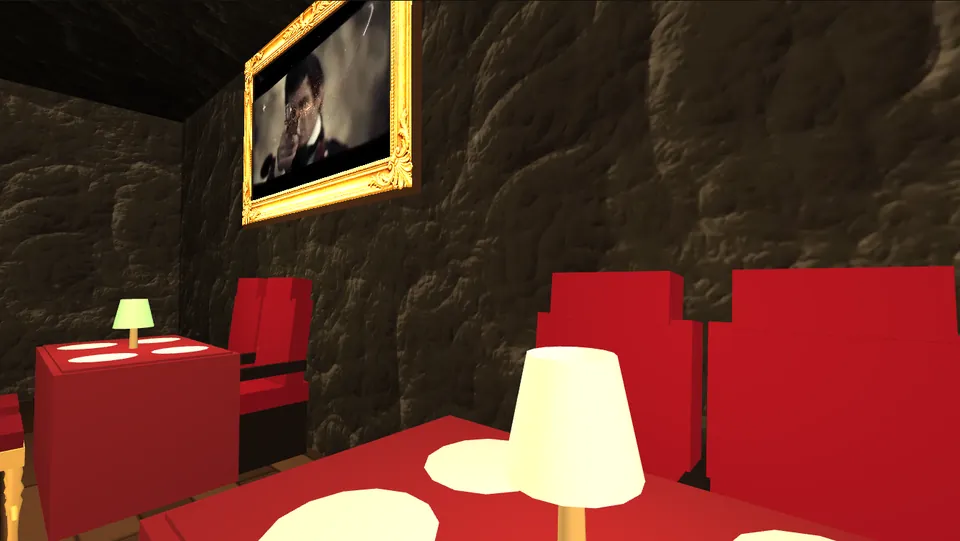
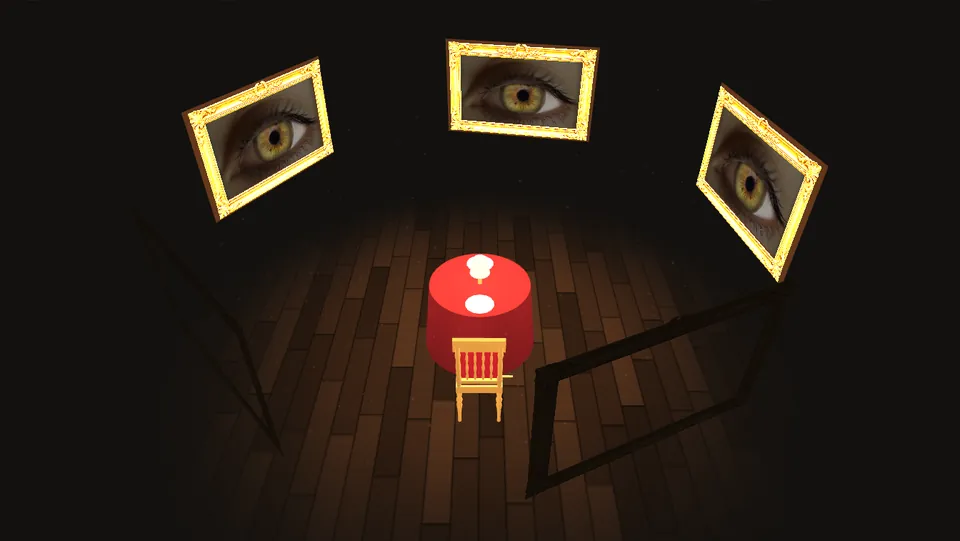
Grotte Napoléon : la salle 3D devient le concept seul (une table, une chaise, cinq écrans qui tournent)
Claude-Session: https://claude.ai/code/session_01Tg9JuPFfiTJrQ2axzwAjp1

diff --git a/clients/la-grotte-napoleon/salle.js b/clients/la-grotte-napoleon/salle.js
@@ -1,13 +1,10 @@
-/* La salle de la Grotte en 3D, vue en plongée comme une maquette (WebGL écrit à la main, sans bibliothèque), d'après la photo
-   et de la vidéo de la vraie salle : une longue galerie de roche NOIRE (la roche ne se voit que là où les lampes et les écrans
-   l'éclairent), parquet sombre, nappes rouges jusqu'au sol, sièges de cinéma capitonnés rouges contre le mur derrière chaque table collée au mur, assiettes de présentation argentées, lampes à abat-jour (crème à
-   la couronne, ou vert) qui font une lumière chaude, cadres dorés haut sur les murs, rien d'autre sur les murs ; au fond, une arcade ouvre sur la seconde salle (trois écrans, tables rondes).
-   Les écrans passent le film de présentation (images/salle.mp4) et leur lumière prend la couleur du film.
-   Vue des yeux d'un client assis à sa table (3 novembre 2026, demande de l'utilisateur : plus de maquette vue d'en haut, où l'on croirait
-   choisir sa place) : la table et son assiette en bas, les murs de roche, les écrans tout autour ; la tête tourne lentement sur elle-même,
-   on peut la tourner à la souris ou au doigt.
-   La toile est transparente : la maquette se pose directement sur le fond de roche de la page, sans cadre.
-   Chargé seulement à l'approche de la section (grotte.js) ; sans WebGL ou avec le mouvement réduit, l'image fixe (transparente) reste. */
+/* La salle de la Grotte en 3D (WebGL écrit à la main, sans bibliothèque) : pour expliquer le concept, pas pour montrer la salle
+   (3 novembre 2026, demande de l'utilisateur : « je veux pas qu'on ait un aperçu de la salle ou de la disposition »).
+   Une seule table ronde dressée, une chaise « Napoléon », et les cinq écrans à cadre doré qui tournent lentement autour d'elle :
+   où que l'on soit assis, le film est tout autour. Pas de murs, pas de plan : la scène flotte sur le fond de roche de la page
+   (toile transparente, le sol s'efface en cercle). Les écrans passent le film de présentation (images/salle.mp4) et leur lumière
+   prend la couleur du film. On peut faire tourner les écrans à la souris ou au doigt.
+   Chargé seulement à l'approche de la section (grotte.js) ; sans WebGL ou avec le mouvement réduit, l'image fixe reste. */
 (() => {
   const boite = document.getElementById("salle3d"); if (!boite) return;
   const toile = boite.querySelector("canvas"), gl = toile.getContext("webgl", { antialias: true, alpha: true, premultipliedAlpha: true, powerPreference: "low-power" }); /* toile transparente : la maquette flotte sur le fond du site */
@@ -85,66 +82,26 @@
     return forme(pos, uv, nor, idx);
   };
 
-  /* ---------- le plan de la salle (une unité = un mètre), d'après les photos et la vidéo de l'utilisateur ----------
-     la grande salle (ZA..ZE) : tables collées aux deux murs avec une rangée de fauteuils de cinéma contre le mur et des chaises
-     dorées côté allée, un écran à cadre doré sur chaque mur, le rideau noir au bout (la cuisine est derrière) ;
-     une arcade de roche large et basse ; la salle du fond (ZF..ZA, plus large) : tables rondes, trois écrans (gauche, fond, droite) */
-  /* UNE UNITÉ = UN MÈTRE (depuis le 2 novembre 2026). La vraie salle fait environ 4,4 × 5,6 m (grande salle), 4 × 3,6 m (fond), 2,6 m sous plafond ;
-     à la demande de l'utilisateur, la maquette est agrandie d'un tiers en long et en large (F) et d'un cinquième en haut (H) pour qu'on respire,
-     le mobilier gardant sa taille réelle. Les écrans et l'arcade grandissent avec la salle. */
-  const F = 1.35, H = 1.2;
-  const X = 2.2 * F, X2 = 2.0 * F, ZE = 5.6 * F, ZA = 0, ZF = -3.6 * F, HM = 2.6 * H, ARC = 1.1 * F, LINTEAU = 2.1 * H;
-  const HT = .75; /* hauteur des tables */
-  /* les écrans : [centre, normale, largeur] ; tous les cinq sont des téléviseurs OLED de 165 cm (16/9 : 1,44 m × 0,81 m), accrochés haut (centre à 2 m) : personne, assis, ne gêne la vue. Le cadre doré (moulures : 9,9 % sur
-     les côtés, 14,8 % en haut et en bas, dessinées pour une ouverture 2/1) s'étire un peu en hauteur pour suivre le 16/9. */
-  const ECRAN_L = 1.44 * F, ECRAN_Y = 2.0 * H; /* 165 cm de diagonale (1,44 × 0,81 m), agrandis avec la salle ; le haut reste juste sous le plafond */
-  const ECRANS = [[[-X + .02, ECRAN_Y, 3.2 * F], [1, 0, 0], ECRAN_L], [[X - .02, ECRAN_Y, 3.2 * F], [-1, 0, 0], ECRAN_L],
-    [[-X2 + .02, ECRAN_Y, -2.2 * F], [1, 0, 0], ECRAN_L], [[0, ECRAN_Y, ZF + .02], [0, 0, 1], ECRAN_L], [[X2 - .02, ECRAN_Y, -2.2 * F], [-1, 0, 0], ECRAN_L]];
-  const N = ECRANS.length, CG = .099, CH = .148;
-  /* les tables collées au mur [x, z, demi-largeur, demi-longueur] (l'allée est du côté du centre), et les tables rondes [x, z, rayon] */
-  /* 30 places en tout, comme le vrai restaurant : 18 dans la grande salle (2 + 2 tables collées au mur), 12 dans la salle du fond (2 rondes de 4, une table de 4) */
-  /* depuis le mur : la banquette (50 cm), puis la table (70 cm de profondeur, 1,2 m de long pour 4, 1,8 m pour 6), puis les chaises */
-  const LONGUES = [[-X + .9, 1.3 * F, .35, .6], [-X + .9, 3.5 * F, .35, .6], [X - .9, 1.3 * F, .35, .6], [X - .9, 3.8 * F, .35, .9],
-    [X2 - .9, -1.0 * F, .35, .6]];
-  const RONDES = [[-X2 + 1.05, -.95 * F, .5, 1], [0, -2.5 * F, .5]]; /* tables rondes d'un mètre */ /* 4e valeur : côté libre (+1 : la table est contre le mur gauche, deux banquettes de cinéma côté mur, deux chaises côté salle) */ /* une contre le mur gauche (en face de la table collée au mur droit), l'autre au centre de la salle du fond */
-  const CHAISES = [], FAUTEUILS = [];
-  /* les sièges de cinéma capitonnés rouges, collés au mur, seulement devant les tables collées au mur (demande de
-     l'utilisateur : pas de sièges là où il n'y a pas de table) ; un siège tous les 0,54, deux par table de quatre, trois pour la table de six */
-  for (const [x, z, , hz] of LONGUES) { const s = x < 0 ? 1 : -1, n = Math.max(2, Math.round(hz * 2 / .56));
-    for (let k = 0; k < n; k++) FAUTEUILS.push([x - s * .6, z - (n - 1) * .28 + k * .56, s]); }
-  for (const [x, z, hx, hz] of LONGUES) {
-    const n = Math.max(2, Math.round(hz * 2 / .56)), pas = hz * 2 / n, s = x < 0 ? 1 : -1;  /* s : vers l'allée */
-    for (let k = 0; k < n; k++) { const zz = z - hz + pas * (k + .5); CHAISES.push([x + s * (hx + .3), zz, s * Math.PI / 2]); }
-  }
-  /* le client qu'on incarne : assis sur la première chaise de la table collée au mur gauche, face à la table et au mur ;
-     sa chaise n'est pas dessinée (on est assis dessus). Depuis là, en tournant la tête, on voit les cinq écrans. */
-  const SIEGE = CHAISES.shift();
-  /* les chaises d'une table ronde : tout autour, ou deux du côté libre quand la table est contre un mur (et deux banquettes côté mur) */
-  const anglesRonde = libre => (libre ? [60, 120].map(d => libre * d) : [45, 135, 225, 315]).map(d => d * Math.PI / 180);
-  const anglesAssiettes = libre => (libre ? [60, 120, 240, 300].map(d => libre * d) : [45, 135, 225, 315]).map(d => d * Math.PI / 180);
-  for (const [x, z, r, libre] of RONDES) { for (const a of anglesRonde(libre)) CHAISES.push([x + Math.sin(a) * (r + .35), z + Math.cos(a) * (r + .35), a]);
-    if (libre) for (const dz of [-.28, .28]) FAUTEUILS.push([x - libre * .75, z + dz, libre]); }
-  /* les assiettes de présentation argentées, une par place, posées sur la nappe */
-  const ASSIETTES = [];
-  for (const [x, z, hx, hz] of LONGUES) { const n = Math.max(2, Math.round(hz * 2 / .56)), pas = hz * 2 / n;
-    for (let k = 0; k < n; k++) { const zz = z - hz + pas * (k + .5); ASSIETTES.push([x - hx + .18, zz], [x + hx - .18, zz]); } }
-  for (const [x, z, r, libre] of RONDES) for (const a of anglesAssiettes(libre)) ASSIETTES.push([x + Math.sin(a) * (r - .18), z + Math.cos(a) * (r - .18)]);
-  /* les lumières : 5 écrans, une lampe par table, 4 appliques à côté des écrans */
-  const LAMPES = [...LONGUES.map(([x, z]) => [x, z]), ...RONDES.map(([x, z]) => [x, z])];
-  const APPLIQUES = []; /* plus d'appliques : rien sur les murs à part les écrans (demande de l'utilisateur, 2 novembre 2026) */
-  const NL = N + LAMPES.length + APPLIQUES.length;
-
+  /* ---------- la scène (une unité = un mètre) ---------- */
+  const HT = .75; /* hauteur de la table */
+  const RT = .5; /* table ronde d'un mètre */
+  /* les cinq écrans : téléviseurs de 165 cm (1,44 × 0,81 m) dans leurs cadres dorés, sur un cercle de 2,5 m autour de la table, tournés vers elle ;
+     ils tournent ensemble (angle phi) */
+  const N = 5, R = 2.5, ECRAN_L = 1.44, ECRAN_Y = 1.75, CG = .099, CH = .148;
+  const LAMPE = [0, 0];
+  const NL = N + 1;
+  /* la chaise, côté caméra, tournée vers la table ; une assiette à sa place, une en face */
+  const CHAISES = [[0, RT + .35, 0]];
+  const ASSIETTES = [[0, RT - .18], [0, -(RT - .18)]];
   /* ---------- les shaders ---------- */
   const brume = `vec3 brume(vec3 c, vec3 w, vec3 e){ float d = length(w - e); return mix(c, vec3(.012,.009,.007), smoothstep(16.0, 26.0, d) * .6); }`;
   const VS = `precision mediump float; attribute vec3 p; attribute vec2 t; attribute vec3 nr; uniform mat4 P, V;
     varying vec2 uv; varying vec3 w, n;
     void main(){ w = p; uv = t; n = nr; gl_Position = P * V * vec4(p, 1.0); }`;
   const pLum = prog(VS, `precision mediump float; varying vec2 uv; varying vec3 w, n; uniform vec3 col, oeil; uniform vec3 lp[${NL}], lc[${NL}];
-    uniform sampler2D roche, motif; uniform float tex, coupe, brille, dos, orne, bois; ${brume}
+    uniform sampler2D roche, motif; uniform float tex, coupe, brille, dos, orne, bois, fondu; ${brume}
     void main(){
       vec3 n0 = normalize(n);
-      /* les murs dont la caméra voit le dos (ceux entre elle et la salle) s'abaissent, avec un haut irrégulier comme de la roche */
-      if (coupe > .5 && dot(n0.xz, oeil.xz - w.xz) < 0.0) { float h = .22 + .06 * sin((w.x + w.z) * 9.0) + .04 * sin((w.x - w.z) * 23.0); if (w.y > h) discard; }
       vec3 nn = n0; if (!gl_FrontFacing) nn = -nn;
       vec3 base = col;
       if (orne > .5) { vec4 m = texture2D(motif, uv); if (m.a < .5) discard; base = m.rgb * 1.1; } /* le cadre doré : ses moulures, son ouverture vide */
@@ -159,9 +116,10 @@
       for (int i = 0; i < ${NL}; i++) { vec3 d = lp[i] - w; float r = length(d); d /= r;
         float lam = max(dot(nn, d), 0.0) * .8 + .2; l += base * lc[i] * lam / (1.0 + r * r * (i < ${N} ? .06 : .9)); }
       l += brille * base;
-      if (tex > .5) l += base * vec3(.07,.02,.018) * (1.0 - smoothstep(0.0, 1.5, w.y)); /* le rouge du sol et des nappes renvoyé sur le bas de la roche */
       if (dos > .5 && dot(n0, oeil - w) < 0.0) l = vec3(.035,.028,.02) + l * .08; /* vu de dos : le bois sombre */
-      gl_FragColor = vec4(brume(l, w, oeil), 1.0); }`);
+      /* le sol s'efface en cercle autour de la table : la scène se pose sur le fond de la page */
+      float a = fondu > 0.0 ? 1.0 - smoothstep(fondu * .35, fondu, length(w.xz)) : 1.0;
+      gl_FragColor = vec4(brume(l, w, oeil) * a, a); }`);
   gl.useProgram(pLum); gl.uniform1i(gl.getUniformLocation(pLum, "motif"), 1); /* le cadre doré sur l'unité de texture 1 */
   /* l'écran : le film côté salle (rogné en 2/1), le dos sombre */
   const pEcran = prog(VS, `precision mediump float; varying vec2 uv; varying vec3 w, n; uniform sampler2D film; uniform vec3 oeil; ${brume}
@@ -177,41 +135,27 @@
     void main(){ vec2 d = gl_PointCoord - .5; float k = exp(-dot(d, d) * 18.0); vec3 c = col * k * a; gl_FragColor = vec4(c, max(c.r, max(c.g, c.b))); }`);
 
   /* ---------- les formes ---------- */
-  const ecrans = ECRANS.map(([c, nrm, w]) => { const h = w * 9 / 16, wc = w / (1 - 2 * CG), hc = h / (1 - 2 * CH), dev = [c[0] + nrm[0] * .015, c[1], c[2] + nrm[2] * .015], der = [c[0] - nrm[0] * .012, c[1], c[2] - nrm[2] * .012];
-    return { film: plan(c, nrm, w, h), cadre: plan(dev, nrm, wc, hc), dos: plan(der, nrm, wc, hc) }; });
   const rect = (x0, x1, z0, z1, y) => [x0, y, z0, x1, y, z0, x0, y, z1, x1, y, z1];
-  const solPlat = (() => { const pos = [...rect(-X, X, ZA, ZE, 0), ...rect(-X2, X2, ZF, ZA, 0)], nor = Array(8).fill([0, 1, 0]).flat();
-    return forme(pos, [0, 0, 1, 0, 0, 1, 1, 1, 0, 0, 1, 0, 0, 1, 1, 1], nor, [0, 2, 1, 1, 2, 3, 4, 6, 5, 5, 6, 7]); })();
-  /* les murs ; le mur de l'arcade a une face vers chaque salle, son linteau de roche est bas et irrégulier */
-  const M = [[-X, HM / 2, (ZA + ZE) / 2, 1, 0, ZE - ZA, HM], [X, HM / 2, (ZA + ZE) / 2, -1, 0, ZE - ZA, HM], [0, HM / 2, ZE, 0, -1, 2 * X, HM],
-    [-X2, HM / 2, (ZF + ZA) / 2, 1, 0, ZA - ZF, HM], [X2, HM / 2, (ZF + ZA) / 2, -1, 0, ZA - ZF, HM], [0, HM / 2, ZF, 0, 1, 2 * X2, HM]];
-  for (const f of [1, -1]) {
-    const z = ZA + f * .07, L = f > 0 ? X : X2;
-    M.push([(-L - ARC) / 2, HM / 2, z, 0, f, L - ARC, HM], [(L + ARC) / 2, HM / 2, z, 0, f, L - ARC, HM]);
-    for (let k = 0; k < 16; k++) { const x0 = -ARC + 2 * ARC * k / 16, x1 = x0 + 2 * ARC / 16, xm = (x0 + x1) / 2, ya = LINTEAU + .1 * Math.sqrt(Math.max(0, 1 - (xm / ARC) ** 2)) + .06 * Math.sin(xm * 11) + .04 * Math.sin(xm * 29);
-      M.push([xm, (ya + HM) / 2, z, 0, f, x1 - x0 + .002, HM - ya]); }
-  }
-  const parois = murs(M);
-  /* le plafond de roche (on est dans la salle : on le voit en levant un peu les yeux) */
-  const plafond = (() => { const pos = [...rect(-X, X, ZA, ZE, HM), ...rect(-X2, X2, ZF, ZA, HM)], nor = Array(8).fill([0, -1, 0]).flat();
-    return forme(pos, [0, 0, 1, 0, 0, 1, 1, 1, 0, 0, 1, 0, 0, 1, 1, 1], nor, [0, 1, 2, 1, 3, 2, 4, 5, 6, 5, 7, 6]); })();
-  /* les tables : la nappe (dessus et pans) ; les rondes en tronc de cône évasé */
-  const tables = (() => { const L = [];
-    for (const [x, z, hx, hz] of LONGUES) if (hz < .8) L.push([x, HT - .01, z, hx, .012, hz, 0], [x, HT / 2, z, hx + .03, HT / 2 - .01, hz + .03, 0]);
-    return paves(L); })();
-  /* les tables rondes, et la grande table de droite qui est ovale sur la photo (nappe évasée jusqu'au sol) */
-  const rondes = [...RONDES.map(([x, z, r]) => [disque(r, HT, 32, x, z), tronc(r * 1.14, r, .01, HT, 32, x, z)]),
-    ...LONGUES.filter(([, , , hz]) => hz >= .8).map(([x, z, hx, hz]) => [disque(hz, HT, 40, x, z, (hx + .06) / hz), tronc(hz * 1.1, hz, .01, HT, 40, x, z, 0, Math.PI * 2, 1, (hx + .06) / hz)])];
-  /* les fauteuils de cinéma contre le mur : assise, haut dossier incliné en velours rouge, accoudoirs et pied sombres ; plus ceux du fond */
-  const FV = [], FS = [];
-  const fauteuil = (x, z, s) => { const a = s > 0 ? Math.PI / 2 : -Math.PI / 2;
-    FV.push([x + s * .02, .42, z, .26, .06, .26, a], [x - s * .17, .74, z, .26, .3, .06, a, -.12], [x - s * .21, 1.1, z, .2, .08, .07, a, -.12]);
-    FS.push([x, .18, z, .24, .18, .24, a]);
-    for (const dz of [-.27, .27]) FS.push([x + s * .02, .6, z + dz, .02, .035, .23, a]); };
-  for (const [x, z, s] of FAUTEUILS) fauteuil(x, z, s);
-  const fauteuils = paves(FV), fauteuilsPied = paves(FS);
+  /* les écrans : film, cadre doré devant, dos sombre ; leurs sommets sont recalculés à chaque image (ils tournent) */
+  const ecrans = [...Array(N)].map(() => ({ film: plan([0, 0, 0], [0, 0, 1], 1, 1), cadre: plan([0, 0, 0], [0, 0, 1], 1, 1), dos: plan([0, 0, 0], [0, 0, 1], 1, 1) }));
+  const place = (g, c, nrm, w, h) => {
+    const r = [nrm[2], 0, -nrm[0]], pos = [], nor = [];
+    for (const [su, sv] of [[-1, 1], [1, 1], [-1, -1], [1, -1]]) { pos.push(c[0] + r[0] * su * w / 2, c[1] + sv * h / 2, c[2] + r[2] * su * w / 2); nor.push(...nrm); }
+    gl.bindBuffer(gl.ARRAY_BUFFER, g.pos); gl.bufferData(gl.ARRAY_BUFFER, new Float32Array(pos), gl.DYNAMIC_DRAW);
+    gl.bindBuffer(gl.ARRAY_BUFFER, g.nor); gl.bufferData(gl.ARRAY_BUFFER, new Float32Array(nor), gl.DYNAMIC_DRAW);
+  };
+  const ECRANS = [];
+  const tourne = phi => { ECRANS.length = 0;
+    for (let i = 0; i < N; i++) { const a = phi + i * Math.PI * 2 / N, c = [Math.sin(a) * R, ECRAN_Y, Math.cos(a) * R], nrm = [-Math.sin(a), 0, -Math.cos(a)], w = ECRAN_L, h = w * 9 / 16;
+      ECRANS.push([c, nrm]);
+      const e = ecrans[i], wc = w / (1 - 2 * CG), hc = h / (1 - 2 * CH);
+      place(e.film, c, nrm, w, h); place(e.cadre, [c[0] + nrm[0] * .015, c[1], c[2] + nrm[2] * .015], nrm, wc, hc); place(e.dos, [c[0] - nrm[0] * .012, c[1], c[2] - nrm[2] * .012], nrm, wc, hc); } };
+  /* le sol : un parquet sombre qui s'efface en cercle */
+  const sol = forme(rect(-4, 4, -4, 4, 0), [0, 0, 1, 0, 0, 1, 1, 1], Array(4).fill([0, 1, 0]).flat(), [0, 2, 1, 1, 2, 3]);
+  /* la table ronde : la nappe rouge évasée jusqu'au sol */
+  const dessus = disque(RT, HT, 40), tour = tronc(RT * 1.14, RT, .01, HT, 40);
   const assiettes = disques(ASSIETTES, .14, HT + .004); /* assiettes de présentation de 28 cm */
-  const lampes = LAMPES.map(([x, z]) => [tronc(.022, .018, HT, HT + .14, 8, x, z), tronc(.1, .065, HT + .13, HT + .3, 16, x, z)]);
+  const lampe = [tronc(.022, .018, HT, HT + .14, 10, ...LAMPE), tronc(.1, .065, HT + .13, HT + .3, 20, ...LAMPE)];
   /* les chaises « Napoléon » (d'après la photo envoyée par l'utilisateur) : tout le bâti doré, pieds et barreaux tournés
      avec leurs bagues, pieds arrière qui partent en arrière, dossier à quatre barreaux sous un bandeau, assise de velours rouge.
      Chaque pièce tournée est un profil (rayon, hauteur de 0 à 1) qu'on fait tourner autour de son axe. */
@@ -245,7 +189,7 @@
     pave(ASSISE, 0, .277, -.008, .168, .028, .158);
   }
   const chaises = tournees(TOURS), dorures = paves(DORE), velours = paves(ASSISE);
-  const poussiere = tampon(new Float32Array([...Array(320)].flatMap(() => { const z = ZF + .3 + Math.random() * (ZE - ZF - .6); return [(Math.random() * 2 - 1) * ((z > ZA ? X : X2) - .2), .3 + Math.random() * 2.0, z]; })));
+  const poussiere = tampon(new Float32Array([...Array(220)].flatMap(() => { const a = Math.random() * Math.PI * 2, r = Math.sqrt(Math.random()) * 2.3; return [Math.sin(a) * r, .2 + Math.random() * 2.1, Math.cos(a) * r]; })));
 
   /* ---------- les textures ---------- */
   const texFilm = gl.createTexture(), texRoche = gl.createTexture();
@@ -282,53 +226,55 @@
     if (g.idx) { gl.bindBuffer(gl.ELEMENT_ARRAY_BUFFER, g.idx); gl.drawElements(gl.TRIANGLES, g.n, gl.UNSIGNED_SHORT, 0); }
     else gl.drawArrays(gl.POINTS, 0, g.n);
   };
-  const VIDE = { tex: 0, coupe: 0, brille: 0, dos: 0, orne: 0, bois: 0 };
-  let theta = .35, vitesse = 0, actif = false, enCours = false, dernier = 0, t = 0;
+  const VIDE = { tex: 0, coupe: 0, brille: 0, dos: 0, orne: 0, bois: 0, fondu: 0 };
+  let phi = .3, vitesse = 0, actif = false, enCours = false, dernier = 0, t = 0;
   const taille = () => {
     const dpr = Math.min(devicePixelRatio || 1, innerWidth < 760 ? 1.5 : 2), r = boite.getBoundingClientRect();
     const w = Math.round(r.width * dpr), h = Math.round(r.height * dpr);
     if (toile.width !== w || toile.height !== h) { toile.width = w; toile.height = h; }
-    gl.viewport(0, 0, w, h); P = perspective(w / h < 1 ? 1.45 : 1.15, w / h, .05, 50); /* un regard large, comme nos yeux : la table en bas, les écrans en haut */ return dpr;
+    gl.viewport(0, 0, w, h); P = perspective(w / h < 1 ? 1.0 : .85, w / h, .05, 50); return dpr;
   };
   const image = now => {
     if (!actif) { enCours = false; return; } requestAnimationFrame(image);
     const dt = Math.min(.05, (now - dernier) / 1000 || 0); dernier = now; t += dt;
-    theta += (.09 + vitesse) * dt; vitesse *= Math.pow(.02, dt); /* un tour complet en un peu plus d'une minute */
+    phi += (.12 + vitesse) * dt; vitesse *= Math.pow(.02, dt); /* les écrans font le tour en un peu moins d'une minute */
+    tourne(phi);
     const dpr = taille(), portrait = toile.width / toile.height < 1;
-    /* les yeux d'un client assis (1,15 m), un peu penché vers sa table ; la tête tourne sur elle-même, et respire à peine */
-    const [sx, sz, sa] = SIEGE, ex = sx - Math.sin(sa) * .1, ez = sz - Math.cos(sa) * .1, cap = sa + Math.PI + theta, haut = (portrait ? .07 : .02) + Math.sin(t * .21) * .02;
-    const oeil = [ex, 1.15 + Math.sin(t * .37) * .006, ez], V = regarde(oeil, [ex + Math.sin(cap), oeil[1] + haut, ez + Math.cos(cap)]);
+    /* au-dessus du cercle, un peu en arrière : la table et sa chaise au milieu, les écrans qui tournent tout autour (ceux de devant passent en bas, vus de dos) ; la caméra respire à peine */
+    const oeil = portrait ? [Math.sin(t * .15) * .1, 5.6, 5.2] : [Math.sin(t * .15) * .15, 4.4, 4.6], V = regarde(oeil, [0, portrait ? .55 : .75, -.2]);
     if (source) { gl.bindTexture(gl.TEXTURE_2D, texFilm); gl.texImage2D(gl.TEXTURE_2D, 0, gl.RGB, gl.RGB, gl.UNSIGNED_BYTE, source); if (compte++ % 3 === 0) mesure(); }
     teinte = teinte.map((v, k) => v + (cible[k] - v) * Math.min(1, dt * 6));
-    /* les lumières : les écrans (couleur du film), les lampes des tables et les appliques (vacillement) */
+    /* les lumières : les cinq écrans (couleur du film) et la lampe de la table */
     const lp = new Float32Array(NL * 3), lc = new Float32Array(NL * 3);
     ECRANS.forEach(([c, nrm], i) => { lp.set([c[0] + nrm[0] * .45, c[1], c[2] + nrm[2] * .45], i * 3); lc.set(teinte.map(v => v * 1.7), i * 3); });
-    LAMPES.forEach(([x, z], i) => { const f = .9 + .07 * Math.sin(t * 7.1 + i * 2); lp.set([x, HT + .35, z], (N + i) * 3); lc.set((i % 3 === 1 ? [1.0, 1.05, .55] : [1.3, 1.1, .7]).map(v => v * f * .72), (N + i) * 3); });
-    gl.clearColor(0, 0, 0, 0); gl.enable(gl.DEPTH_TEST); gl.depthMask(true); gl.disable(gl.BLEND); gl.clear(gl.COLOR_BUFFER_BIT | gl.DEPTH_BUFFER_BIT);
+    const f = .9 + .07 * Math.sin(t * 7.1); lp.set([LAMPE[0], HT + .35, LAMPE[1]], N * 3); lc.set([1.3 * f, 1.1 * f, .7 * f].map(v => v * .8), N * 3);
+    gl.clearColor(.075, .068, .058, 1); /* un fond sombre (la page l'estompe sur les bords) : le Napoléon du fond de l'accueil ne passe plus à travers */ gl.enable(gl.DEPTH_TEST); gl.depthMask(true); gl.disable(gl.BLEND); gl.clear(gl.COLOR_BUFFER_BIT | gl.DEPTH_BUFFER_BIT);
     gl.activeTexture(gl.TEXTURE0); gl.bindTexture(gl.TEXTURE_2D, texRoche);
     const lum = (g, col, extra = {}) => { gl.useProgram(pLum); gl.uniform3fv(gl.getUniformLocation(pLum, "lp"), lp); gl.uniform3fv(gl.getUniformLocation(pLum, "lc"), lc); dessine(pLum, g, { ...VIDE, V, oeil, col, ...extra }); };
-    lum(solPlat, [.2, .13, .085], { bois: 1 });
-    lum(parois, [.72, .68, .64], { tex: 1, brille: .03 }); lum(plafond, [.34, .31, .29], { tex: 1 });
-    lum(tables, [.4, .1, .12]); for (const [dessus, tour] of rondes) { lum(tour, [.37, .09, .11]); lum(dessus, [.43, .12, .13]); }
-    lum(fauteuils, [.38, .05, .09]); lum(fauteuilsPied, [.08, .06, .05]);
+    lum(tour, [.37, .09, .11]); lum(dessus, [.43, .12, .13]);
     lum(assiettes, [.62, .62, .6], { brille: .06 });
-    /* les lampes : abat-jour crème à la couronne (comme dans la vidéo) ou vert (comme sur la photo), la lumière est chaude */
-    lampes.forEach(([tige, abat], i) => { lum(tige, [.6, .5, .3]); lum(abat, i % 3 === 1 ? [.45, .7, .38] : [.85, .74, .5], { brille: .45 }); }); /* de près, l'abat-jour luit sans éblouir */
+    lum(lampe[0], [.6, .5, .3]); lum(lampe[1], [.85, .74, .5], { brille: .45 });
     lum(chaises, [.7, .54, .27], { brille: .07 }); lum(dorures, [.7, .54, .27], { brille: .07 }); lum(velours, [.32, .06, .09]);
-    ecrans.forEach((e, i) => { const [c, nrm] = ECRANS[i]; if (nrm[0] * (oeil[0] - c[0]) + nrm[2] * (oeil[2] - c[2]) < 0) return; /* un écran vu de l'autre salle, à travers le mur : on ne le dessine pas */
+    ecrans.forEach((e, i) => {
+      const [c, nrm] = ECRANS[i];
+      /* vu de dos, un écran ne garde que la silhouette sombre de son cadre : il ne cache ni la table ni la chaise */
+      if (nrm[0] * (oeil[0] - c[0]) + nrm[1] * (oeil[1] - c[1]) + nrm[2] * (oeil[2] - c[2]) < 0) { lum(e.cadre, [1, 1, 1], { dos: 1, orne: 1 }); return; }
       dessine(pLum, e.dos, { ...VIDE, V, oeil, col: [.16, .1, .06], lp, lc });
       lum(e.cadre, [1, 1, 1], { brille: .32, dos: 1, orne: 1 });
       gl.bindTexture(gl.TEXTURE_2D, texFilm); dessine(pEcran, e.film, { V, oeil }); gl.bindTexture(gl.TEXTURE_2D, texRoche);
     });
-    /* la poussière dans la lumière, additive (plus de halos : ils faisaient des taches) */
-    gl.depthMask(false); gl.enable(gl.BLEND); gl.blendFunc(gl.ONE, gl.ONE);
-    dessine(pHalo, { pos: poussiere, n: 300 }, { V, taille: 26 * dpr, t, vole: 1, col: teinte.map(v => v * .2) });
+    /* le sol en dernier, fondu sur le fond de la page (il ne cache rien : tout est posé dessus) */
+    gl.enable(gl.BLEND); gl.blendFunc(gl.ONE, gl.ONE_MINUS_SRC_ALPHA);
+    lum(sol, [.11, .075, .05], { bois: 1, fondu: 3.4 });
+    /* la poussière dans la lumière des écrans, additive */
+    gl.depthMask(false); gl.blendFunc(gl.ONE, gl.ONE);
+    dessine(pHalo, { pos: poussiere, n: 220 }, { V, taille: 26 * dpr, t, vole: 1, col: teinte.map(v => v * .2) });
     gl.depthMask(true); gl.disable(gl.BLEND);
   };
   /* tourner à la main : on garde le défilement vertical de la page */
   let x0 = null;
   toile.addEventListener("pointerdown", e => { x0 = e.clientX; toile.setPointerCapture(e.pointerId); });
-  toile.addEventListener("pointermove", e => { if (x0 == null) return; const dx = e.clientX - x0; x0 = e.clientX; theta -= dx * .006; vitesse = -dx * .25; });
+  toile.addEventListener("pointermove", e => { if (x0 == null) return; const dx = e.clientX - x0; x0 = e.clientX; phi += dx * .006; vitesse = dx * .25; });
   toile.addEventListener("pointerup", () => { x0 = null; }); toile.addEventListener("pointercancel", () => { x0 = null; });
   new IntersectionObserver(([e]) => { actif = e.isIntersecting; if (actif) { boite.classList.add("pret"); video.play().catch(() => {}); if (!enCours) { enCours = true; dernier = performance.now(); requestAnimationFrame(image); } } else video.pause(); }, { rootMargin: "80px" }).observe(boite);
 })();

diff --git a/clients/la-grotte-napoleon/produit.html b/clients/la-grotte-napoleon/produit.html
@@ -8,7 +8,7 @@
 <meta name="robots" content="noindex">
 <meta name="theme-color" content="#161411">
 <link rel="icon" href="images/couronne.png">
-<link rel="stylesheet" href="grotte.css?v=20261103i">
+<link rel="stylesheet" href="grotte.css?v=20261103n">
 </head>
 <body data-titre="meta-produit">
 <div class="maquette" data-t="bandeau">Maquette préparée par Saitora pour La Grotte Napoléon : à valider ensemble avant la mise en ligne.</div>
@@ -89,8 +89,8 @@
   <a href="./#venir" data-t="barre-plan">Plan</a>
 </div>
 
-<script src="produits.js?v=20261103i"></script>
-<script src="textes.js?v=20261103i"></script>
-<script src="grotte.js?v=20261103i"></script>
+<script src="produits.js?v=20261103n"></script>
+<script src="textes.js?v=20261103n"></script>
+<script src="grotte.js?v=20261103n"></script>
 </body>
 </html>

diff --git a/clients/la-grotte-napoleon/panier.html b/clients/la-grotte-napoleon/panier.html
@@ -8,7 +8,7 @@
 <meta name="robots" content="noindex">
 <meta name="theme-color" content="#161411">
 <link rel="icon" href="images/couronne.png">
-<link rel="stylesheet" href="grotte.css?v=20261103i">
+<link rel="stylesheet" href="grotte.css?v=20261103n">
 </head>
 <body data-titre="meta-panier">
 <div class="maquette" data-t="bandeau">Maquette préparée par Saitora pour La Grotte Napoléon : à valider ensemble avant la mise en ligne.</div>
@@ -79,8 +79,8 @@
   <a href="./#venir" data-t="barre-plan">Plan</a>
 </div>
 
-<script src="produits.js?v=20261103i"></script>
-<script src="textes.js?v=20261103i"></script>
-<script src="grotte.js?v=20261103i"></script>
+<script src="produits.js?v=20261103n"></script>
+<script src="textes.js?v=20261103n"></script>
+<script src="grotte.js?v=20261103n"></script>
 </body>
 </html>

diff --git a/clients/la-grotte-napoleon/boutique.html b/clients/la-grotte-napoleon/boutique.html
@@ -8,7 +8,7 @@
 <meta name="robots" content="noindex">
 <meta name="theme-color" content="#161411">
 <link rel="icon" href="images/couronne.png">
-<link rel="stylesheet" href="grotte.css?v=20261103i">
+<link rel="stylesheet" href="grotte.css?v=20261103n">
 </head>
 <body class="btq" data-titre="meta-boutique">
 <div class="maquette" data-t="bandeau">Maquette préparée par Saitora pour La Grotte Napoléon : à valider ensemble avant la mise en ligne.</div>
@@ -270,8 +270,8 @@
 </div>
 
 
-<script src="produits.js?v=20261103i"></script>
-<script src="textes.js?v=20261103i"></script>
-<script src="grotte.js?v=20261103i"></script>
+<script src="produits.js?v=20261103n"></script>
+<script src="textes.js?v=20261103n"></script>
+<script src="grotte.js?v=20261103n"></script>
 </body>
 </html>

diff --git a/clients/la-grotte-napoleon/reserver.html b/clients/la-grotte-napoleon/reserver.html
@@ -8,7 +8,7 @@
 <meta name="robots" content="noindex">
 <meta name="theme-color" content="#161411">
 <link rel="icon" href="images/couronne.png">
-<link rel="stylesheet" href="grotte.css?v=20261103i">
+<link rel="stylesheet" href="grotte.css?v=20261103n">
 </head>
 <body class="btq resa-ouv" data-titre="meta-reserver">
 <div class="maquette" data-t="bandeau">Maquette préparée par Saitora pour La Grotte Napoléon : à valider ensemble avant la mise en ligne.</div>
@@ -106,7 +106,7 @@
   <a href="./#venir" data-t="barre-plan">Plan</a>
 </div>
 
-<script src="textes.js?v=20261103i"></script>
-<script src="grotte.js?v=20261103i"></script>
+<script src="textes.js?v=20261103n"></script>
+<script src="grotte.js?v=20261103n"></script>
 </body>
 </html>

diff --git a/clients/la-grotte-napoleon/formules.html b/clients/la-grotte-napoleon/formules.html
@@ -8,7 +8,7 @@
 <meta name="robots" content="noindex">
 <meta name="theme-color" content="#161411">
 <link rel="icon" href="images/couronne.png">
-<link rel="stylesheet" href="grotte.css?v=20261103i">
+<link rel="stylesheet" href="grotte.css?v=20261103n">
 </head>
 <body data-titre="meta-formules">
 <div class="maquette" data-t="bandeau">Maquette préparée par Saitora pour La Grotte Napoléon : à valider ensemble avant la mise en ligne.</div>
@@ -146,7 +146,7 @@
 </div>
 
 
-<script src="textes.js?v=20261103i"></script>
-<script src="grotte.js?v=20261103i"></script>
+<script src="textes.js?v=20261103n"></script>
+<script src="grotte.js?v=20261103n"></script>
 </body>
 </html>

diff --git a/clients/la-grotte-napoleon/index.html b/clients/la-grotte-napoleon/index.html
@@ -8,7 +8,7 @@
 <meta name="robots" content="noindex">
 <meta name="theme-color" content="#161411">
 <link rel="icon" href="images/couronne.png">
-<link rel="stylesheet" href="grotte.css?v=20261103i">
+<link rel="stylesheet" href="grotte.css?v=20261103n">
 </head>
 <body data-titre="meta-titre">
 <div class="maquette" data-t="bandeau">Maquette préparée par Saitora pour La Grotte Napoléon : à valider ensemble avant la mise en ligne.</div>
@@ -213,7 +213,7 @@
 </div>
 
 
-<script src="textes.js?v=20261103i"></script>
-<script src="grotte.js?v=20261103i"></script>
+<script src="textes.js?v=20261103n"></script>
+<script src="grotte.js?v=20261103n"></script>
 </body>
 </html>

diff --git a/clients/la-grotte-napoleon/NOTES.md b/clients/la-grotte-napoleon/NOTES.md
@@ -97,3 +97,4 @@ Tout ce qui a été fait, décidé ou refusé sur ce site (repris de `ETAT.md` l
 - **Napoléon et l’enfant cadrés jusqu’à la taille (3 novembre 2026, demande de l’utilisateur : « qu’on voie ses bras »)** : nouvelles images faites par l’utilisateur avec ChatGPT (bras, main glissée dans le gilet ; l’enfant dans la même pose), détourées ici (rembg). L’enfant est réduit à 0,87 et calé sur l’adulte par les yeux, le nez et la bouche, dans le même cadre 1145 × 1374 : plus de décalage (`--le` = `--l`, plus de `translateY`). La tête étant 1,91 fois plus petite dans l’image, le portrait de l’accueil est agrandi de 2,09 (même taille de visage que la boutique) et le bicorne replacé (`.portrait:not(.sacre):not(.josephine) .bicorne`). À cette taille, on voit les épaules et le haut des bras sur ordinateur, pas encore la main.
 - **Le vrai calendrier branché (3 novembre 2026, demande de l’utilisateur)** : l’ancien site (`lagrottenapoleon.fr`, WordPress) réserve avec **WooCommerce Bookings** : produit 13049 « formule complète » (personnes : adulte 13055, enfant 13075) et 17438 « formule découverte » (personne 17446), 30 places, fermé de novembre à mars, séances 12 h et 13 h 30 (complète), 12 h, 13 h 30, 15 h et 16 h (découverte). `reserver.html` lit les places en direct par l’API publique `wp-json/wc-bookings/v1/products/slots` (une demande pour douze mois, environ 5 s, gardée 5 min dans l’onglet ; l’API répond aux pages de saitora.fr) et s’ouvre sur le premier mois où il y a des séances. « Continuer vers le paiement » envoie le choix dans le **panier du site de la Grotte** (même formulaire que sa page produit ; testé le 3 novembre avec 1 place le 15 avril 2027, panier vidé tout de suite) : on y donne ses coordonnées et on paie (Stripe du site de la Grotte). L’étape IV (coordonnées, paiement sur place) et le choix de la langue du film sont retirés, le site de la Grotte ne les reçoit pas ; les moins de 7 ans (gratuits) ne sont pas envoyés. Les heures du soir (20 h, 21 h 30) de la maquette sont retirées. **À savoir** : WooCommerce Bookings n’est pas relié tout seul à Booking ni à GetYourGuide ; une place vendue là-bas ne baisse pas les places du site si le père ne la bloque pas à la main (ou par un gestionnaire comme Bókun).
 - **La salle vue des yeux d’un client (3 novembre 2026, demande de l’utilisateur : plus de maquette vue d’en haut, les gens voudraient choisir leur place)** : `salle.js` met la caméra à la place d’un client assis (première chaise de la table collée au mur gauche, yeux à 1,15 m, sa chaise n’est pas dessinée) ; la tête tourne lentement sur elle-même (un tour en un peu plus d’une minute), à la souris ou au doigt ; on voit en bas sa table, sa lampe et les assiettes, la roche, un plafond de roche ajouté, et les cinq écrans en tournant. Les murs ne s’abaissent plus. Regard large (champ 1,15 rad, 1,45 sur téléphone), lampes adoucies de près. `images/salle-affiche.webp` refaite depuis cette vue.
+- **Plus de salle du tout : le concept seul (3 novembre 2026, demande de l’utilisateur : « je veux pas qu’on ait un aperçu de la salle ou la disposition »)** : `salle.js` ne dessine plus qu’une table ronde dressée (nappe rouge, deux assiettes, lampe), une chaise « Napoléon » et les cinq écrans à cadre doré, sur un cercle de 2,5 m, qui tournent lentement autour de la table (un tour en un peu moins d’une minute ; à la souris ou au doigt on les fait tourner). Plus de murs, de plafond, d’arcade ni d’autres tables. Vue d’un peu en haut, derrière la chaise ; les écrans vus de dos ne gardent que la silhouette sombre de leur cadre. Sol de parquet qui s’efface en cercle, fond sombre (sinon le grand Napoléon du fond de l’accueil passait à travers). `images/salle-affiche.webp` refaite. L’ancienne salle détaillée reste dans git (commit de la vue « yeux d’un client »).
